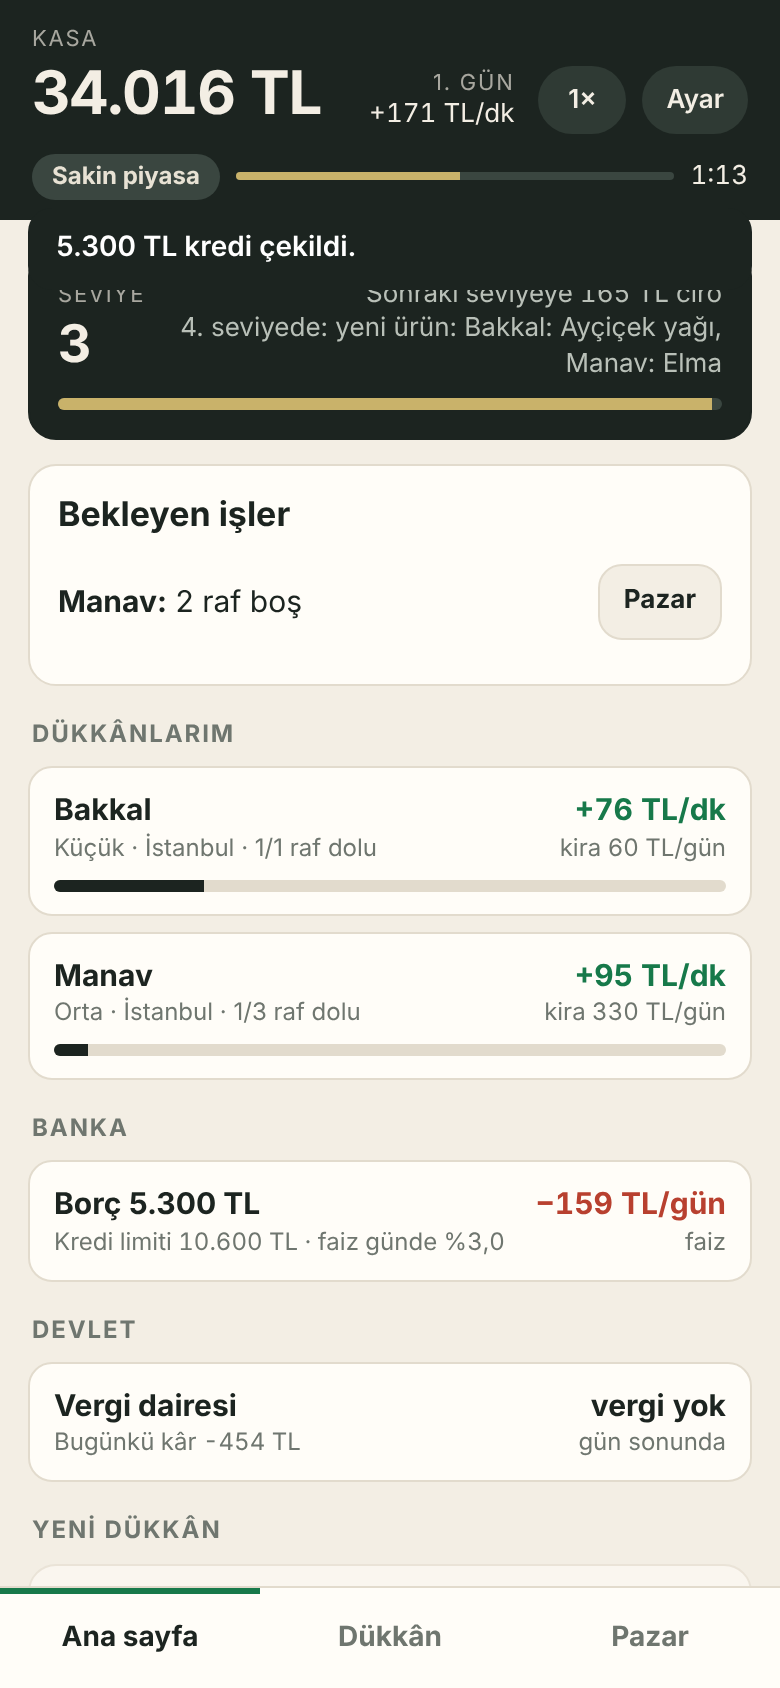
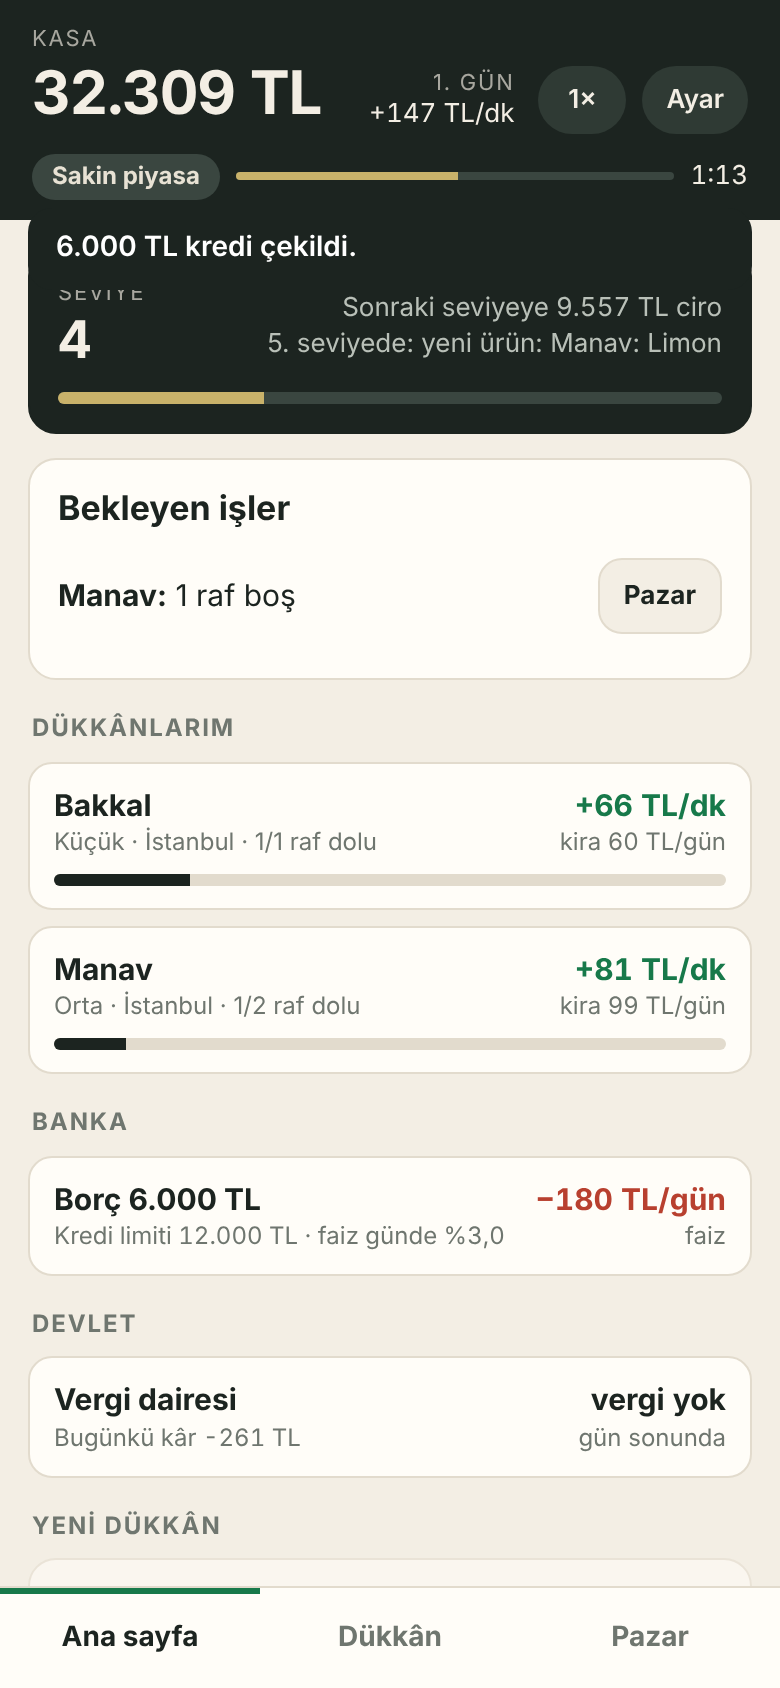
Dükkân boyutları: 1/2/4 raf, büyütme açılıştan pahalı, kira her kademede 1,5 kat; tempo telafisi
Claude-Session: https://claude.ai/code/session_016ga1EdVkJkJaVmwRgvhwTG

diff --git a/src/data/shops.ts b/src/data/shops.ts
@@ -10,7 +10,7 @@ export interface ShopType {
 }
 export const TYPES: ShopType[] = [
   { id: "bakkal", ad: "Bakkal", level: 1, cost: 3500, tier: 1, products: [["makarna", "Makarna", 14], ["un", "Un", 22], ["seker", "Şeker", 36], ["cay", "Çay", 42], ["pirinc", "Pirinç", 48], ["yag", "Ayçiçek yağı", 78]] },
-  { id: "manav", ad: "Manav", level: 3, cost: 6000, tier: 1.1, products: [["sogan", "Soğan", 12], ["patates", "Patates", 16], ["domates", "Domates", 28], ["elma", "Elma", 34], ["limon", "Limon", 40], ["muz", "Muz", 62]] },
-  { id: "kuruyemis", ad: "Kuruyemişçi", level: 6, cost: 18000, tier: 2, products: [["leblebi", "Leblebi", 60], ["cekirdek", "Ay çekirdeği", 70], ["findik", "Fındık", 95], ["kayisi", "Kuru kayısı", 180], ["ceviz", "Ceviz", 240], ["fistik", "Antep fıstığı", 320]] },
-  { id: "tekel", ad: "Tekel bayii", level: 9, cost: 40000, tier: 3, products: [["soda", "Soda", 12], ["cakmak", "Çakmak", 18], ["bira", "Bira", 55], ["sigara", "Sigara", 85], ["sarap", "Şarap", 220], ["raki", "Rakı", 650]] },
+  { id: "manav", ad: "Manav", level: 3, cost: 5000, tier: 1.1, products: [["sogan", "Soğan", 12], ["patates", "Patates", 16], ["domates", "Domates", 28], ["elma", "Elma", 34], ["limon", "Limon", 40], ["muz", "Muz", 62]] },
+  { id: "kuruyemis", ad: "Kuruyemişçi", level: 6, cost: 12000, tier: 2, products: [["leblebi", "Leblebi", 60], ["cekirdek", "Ay çekirdeği", 70], ["findik", "Fındık", 95], ["kayisi", "Kuru kayısı", 180], ["ceviz", "Ceviz", 240], ["fistik", "Antep fıstığı", 320]] },
+  { id: "tekel", ad: "Tekel bayii", level: 9, cost: 26000, tier: 3, products: [["soda", "Soda", 12], ["cakmak", "Çakmak", 18], ["bira", "Bira", 55], ["sigara", "Sigara", 85], ["sarap", "Şarap", 220], ["raki", "Rakı", 650]] },
 ];

diff --git a/src/data/config.ts b/src/data/config.ts
@@ -7,7 +7,7 @@ export const CONFIG = {
   rentScale: 1,
   shipPerKm: 0.004, // TL / km / birim
   churnSec: 12, // ilanların canlı değişim aralığı (sn)
-  xpBase: 1800, // seviye n için gereken toplam ciro: xpBase * (n-1)^xpPow
+  xpBase: 1400, // seviye n için gereken toplam ciro: xpBase * (n-1)^xpPow
   xpPow: 2.2,
   loanRatio: 0.6, // kredi limiti = servet * oran
   interestDay: 0.02, // taban günlük faiz
@@ -37,10 +37,11 @@ export const CONFIG = {
     canli: { ad: "Canlı piyasa", m: 1.15 },
     kotu: { ad: "Kötü piyasa", m: 0.8 },
   },
+  // Büyütme açılıştan pahalıdır (costK x açılış bedeli) ama kira her kademede yalnızca 1,5 kat artar: büyümenin ödülü kira verimidir.
   sizes: [
     { ad: "Küçük", shelves: 1, depot: 1200, rent: 60, costK: 0, offers: 1 },
-    { ad: "Orta", shelves: 3, depot: 3000, rent: 300, costK: 0.6, offers: 2 },
-    { ad: "Büyük", shelves: 6, depot: 6000, rent: 700, costK: 3, offers: 3 },
+    { ad: "Orta", shelves: 2, depot: 3000, rent: 90, costK: 1.2, offers: 2 },
+    { ad: "Büyük", shelves: 4, depot: 7500, rent: 135, costK: 3.6, offers: 3 },
   ],
 };
 export type MarketState = keyof typeof CONFIG.states;
